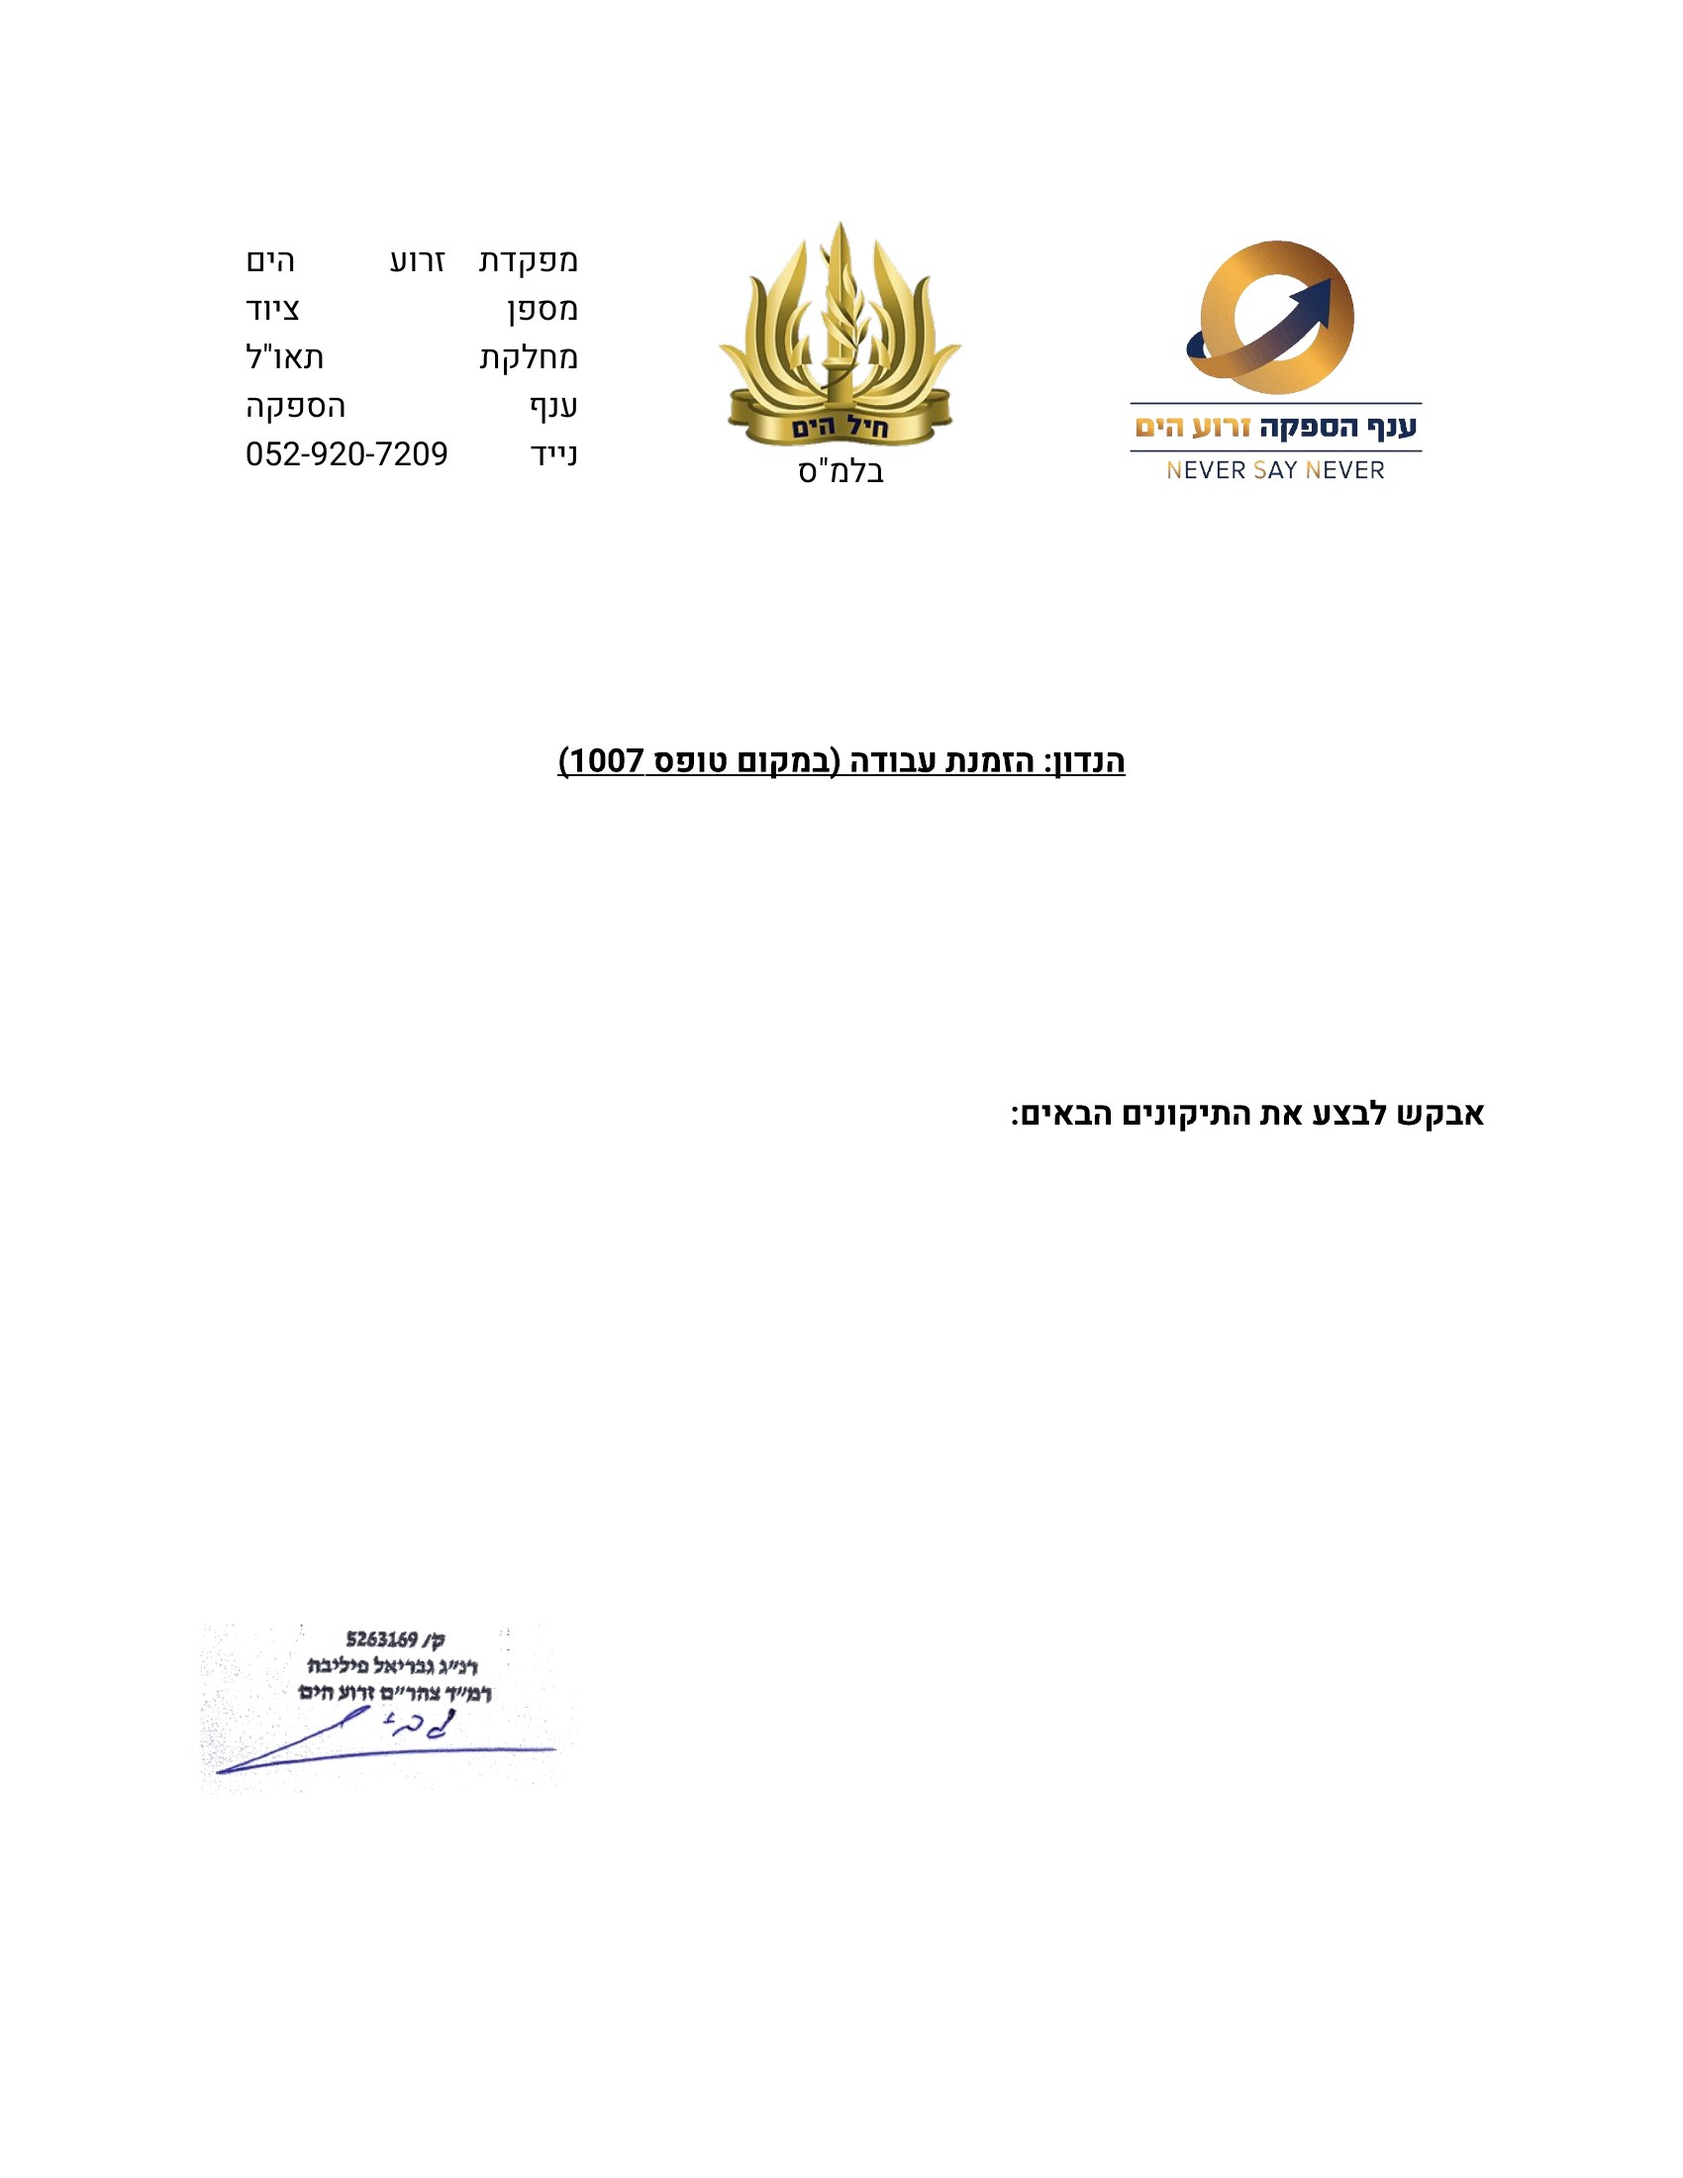
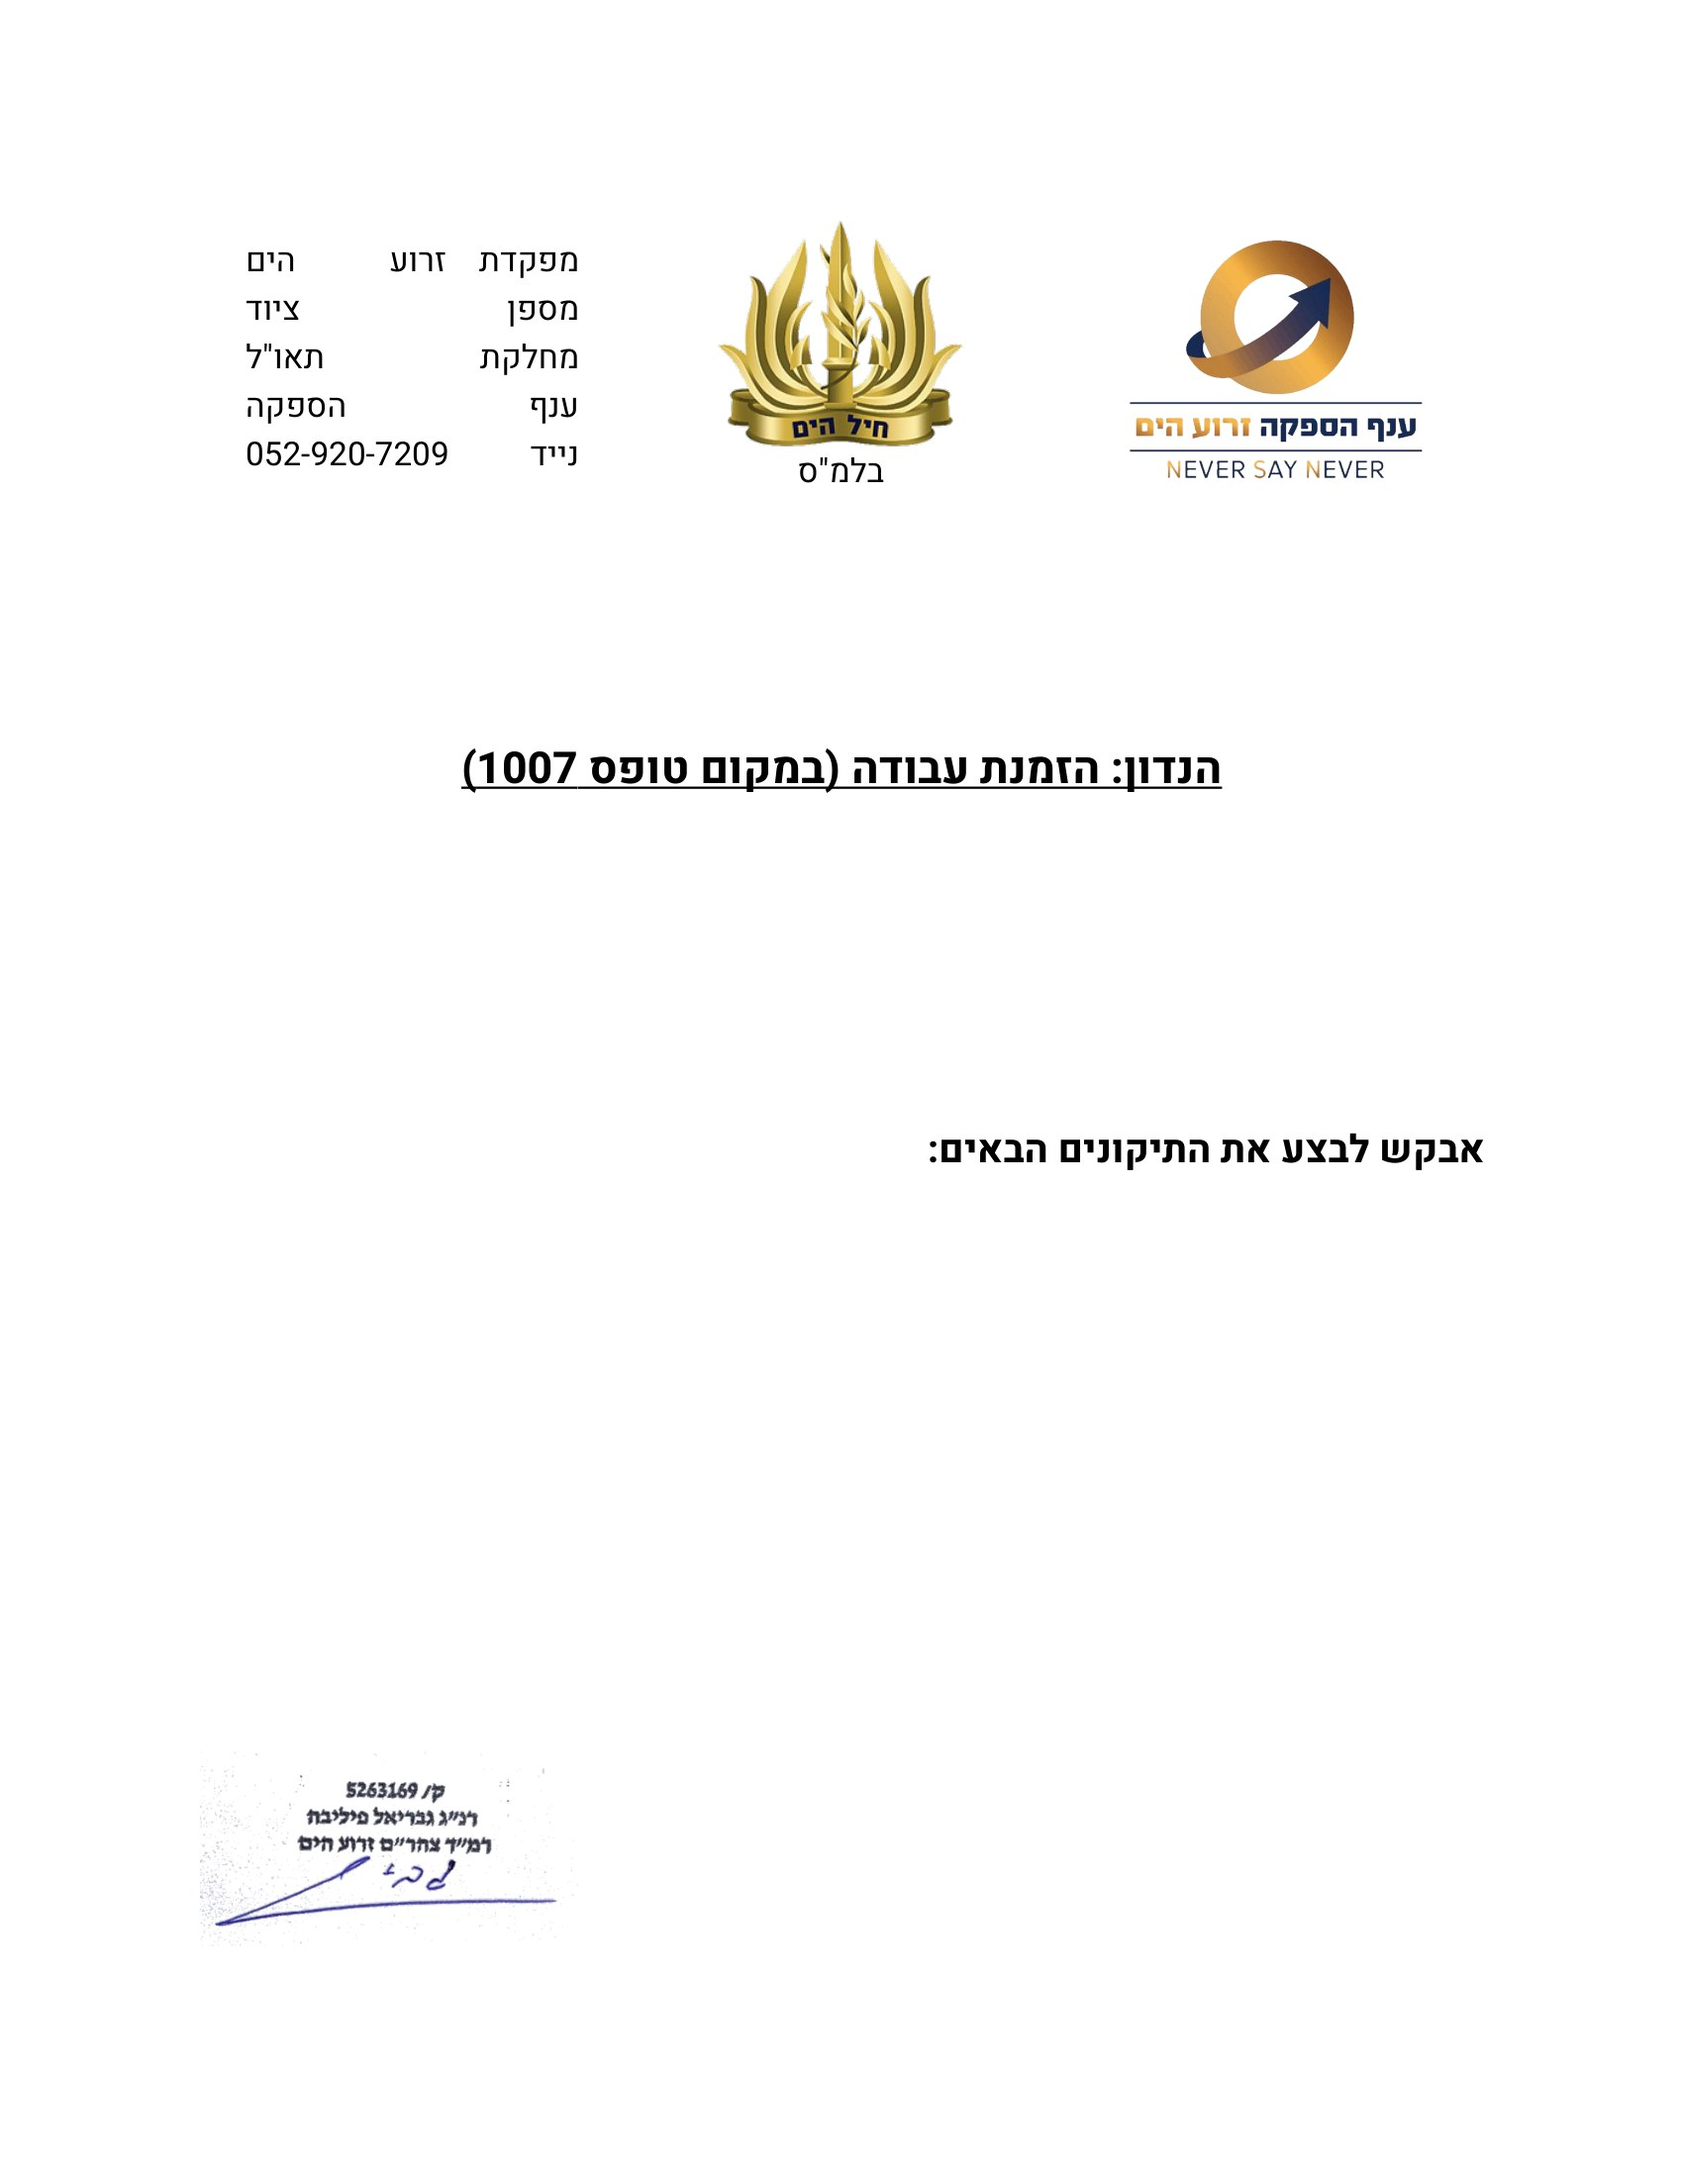
1007: שבלונה מעודכנת + שדה איש קשר
- הטופס החדש (גופן 14, שורות ממורכזות) והרקע שלו
- שדה 'איש קשר' בהזמנה, ברירת מחדל מההזמנה האחרונה
- בטקסט ארוך הרווחים מצטמצמים לפני שהגופן קטן

Claude-Session: https://claude.ai/code/session_01EctGJwErekA9LqHX3kjfTm

diff --git a/index.html b/index.html
@@ -755,6 +755,7 @@ try{ matchMedia("(prefers-color-scheme: dark)").addEventListener("change", syncT
     </div>
     <div class="field"><label for="oRepairs">אבקש לבצע את התיקונים הבאים (תאור התיקון)</label><textarea id="oRepairs" rows="3"></textarea></div>
     <div class="field"><label for="oDetails">התיקון יבוצע</label><textarea id="oDetails" rows="3"></textarea></div>
+    <div class="field"><label for="oContact">איש קשר (שם וטלפון)</label><textarea id="oContact" rows="2" placeholder="לדוגמה: איתי רוזנבלום 050-0000000"></textarea></div>
     <div class="field flag-field"><label for="oFlag"><span class="flag-ic">!</span> לטיפול שלי (משאירים ריק כשהטיפול הסתיים)</label><input id="oFlag" placeholder="לדוגמה: לבדוק מחיר / לעדכן תאריך"></div>
     <div class="field-group-title">תקציב (לא מודפס בטופס)</div>
     <div class="field"><label for="oReserve" id="oReserveLabel">סכום לשריון</label><input id="oReserve" class="ltr money" inputmode="decimal" autocomplete="off">
@@ -2348,6 +2349,12 @@ function fillDatalists(){
   $("dlVehicle").innerHTML = uniq("vehicle").map(v => `<option value="${escapeHtml(v)}">`).join("");
   $("dlUnit").innerHTML = uniq("unit").map(v => `<option value="${escapeHtml(v)}">`).join("");
 }
+// איש הקשר של ההזמנה האחרונה שהוזן בה — ברירת מחדל להזמנה חדשה
+function lastContact(){
+  const prev = state.orders.filter(o => String(o.contact || "").trim())
+    .sort((a, b) => String(b.date || "").localeCompare(String(a.date || "")))[0];
+  return prev ? prev.contact : "";
+}
 function openOrderForm(id, preset){
   const o = state.orders.find(x => x.id === id);
   editingOrderId = o ? o.id : null;
@@ -2376,6 +2383,7 @@ function openOrderForm(id, preset){
   $("oUnit").value = o?.unit || "";
   $("oRepairs").value = o?.repairs || "";
   $("oDetails").value = o?.details || "";
+  $("oContact").value = o ? (o.contact || "") : lastContact();
   $("oFlag").value = o?.flag || "";
   const inv = o && invoiceForOrder(o.id);
   setNum("oReserve", o?.reserve ?? null);
@@ -2453,6 +2461,7 @@ function collectOrder(){
     unit: $("oUnit").value.trim(),
     repairs: $("oRepairs").value.trim(),
     details: $("oDetails").value.trim(),
+    contact: $("oContact").value.trim(),
     flag: $("oFlag").value.trim(),
     budgetLineId: $("oBudget").value,
     reserve: numOf("oReserve"),
@@ -2497,6 +2506,7 @@ function fieldsFor(o){
     "[יחידה]": o.unit,
     "[שדה תיקונים]": o.repairs,
     "[פירוט התיקון]": o.details,
+    "[פרטי איש קשר]": o.contact || "",
   };
 }
 let templateCache = null;
@@ -2530,12 +2540,13 @@ const BG_1007_URL = "1007-bg.jpg";
 const PDF_MIME = "application/pdf";
 // מיקומים בנקודות (pt), נמדדו מהטופס המקורי. baseline = קו הבסיס של השורה.
 const F1007 = {
-  page: [612, 792], right: 539.93, left: 72,
-  lineA: { baseline: 229.41, alColon: 455.368, dateColon: 185.892 },
-  lineB: { baseline: 332.01 },
-  lineC: { baseline: 357.66 },
-  block: { first: 434.61, heading2Gap: 50.27, detailsGap: 26.68, bottom: 588 },
-  size: 12, lineH: 17.625,
+  page: [612, 792], right: 539.93, left: 72, center: 306,
+  lineA: { baseline: 229.41, alColon: 455.368, dateColon: 185.892, size: 12 },
+  lineB: { baseline: 339.9 },
+  lineC: { baseline: 368.45 },
+  // תיקונים → "התיקון יבוצע:" → פירוט → "איש קשר:" → פרטים. bottom = קו בסיס אחרון מעל החתימה
+  block: { first: 451.2, headGap: 57.1, valueGap: 28.55, bottom: 634 },
+  size: 14, lineH: 20.55,
 };
 const scriptCache = {};
 function loadScript(src){
@@ -2607,6 +2618,7 @@ async function render1007Overlay(o){
 
   // שורה 1: "אל: [שם החברה]" מימין, "תאריך: [תאריך]" משמאל
   const A = F1007.lineA;
+  { const S = A.size;
   ctx.font = `700 ${S}px Heebo`;
   const alW = ctx.measureText("אל").width, dateLabelW = ctx.measureText("תאריך").width;
   ctx.fillText("אל", A.alColon + alW, A.baseline);
@@ -2615,46 +2627,58 @@ async function render1007Overlay(o){
   drawRuns(ctx, companyRuns, A.alColon, A.baseline, fitSize(ctx, companyRuns, maxCompany, S));
   ctx.font = `700 ${S}px Heebo`;
   ctx.fillText("תאריך", A.dateColon + dateLabelW, A.baseline);
-  drawRuns(ctx, [{ t: ": " + f["[תאריך הנפקת מסמך]"] }], A.dateColon, A.baseline, S);
+  drawRuns(ctx, [{ t: ": " + f["[תאריך הנפקת מסמך]"] }], A.dateColon, A.baseline, S); }
 
-  // שורה 2: הזמנה מס' · סודר · מס' צ'  (כמו ב-Word: מימין לשמאל, עם אותם רווחים)
-  const runsB = [
-    { t: "הזמנה מס' ", b: true }, { t: `${f["[מס' הזמנה]"]}    ` },
-    { t: "סודר", b: true }, { t: ` ${f["[מס' סודר]"]}    ` },
-    { t: "מס' צ' ", b: true }, { t: `${f["[מס' צ']"]}` },
-  ];
+  // שורות 2–3 ממורכזות בעמוד, כמו ב-Word, עם אותם רווחים בין השדות
   const fullW = F1007.right - F1007.left;
-  drawRuns(ctx, runsB, F1007.right, F1007.lineB.baseline, fitSize(ctx, runsB, fullW, S));
-  // שורה 3: סוג הכלי · שעות מנוע · יחידה
-  const runsC = [
-    { t: "סוג הכלי", b: true }, { t: ` ${f["[סוג הכלי]"]}         ` },
-    { t: "שעות מנוע", b: true }, { t: ` ${f["[שעות מנוע]"]}      ` },
+  const centered = (runs, baseline) => {
+    const size = fitSize(ctx, runs, fullW, S);
+    drawRuns(ctx, runs, F1007.center + runsWidth(ctx, runs, size) / 2, baseline, size);
+  };
+  const sp = n => " ".repeat(n);
+  centered([
+    { t: "הזמנה מס' ", b: true }, { t: `${f["[מס' הזמנה]"]}${sp(12)}` },
+    { t: "סודר", b: true }, { t: ` ${f["[מס' סודר]"]}${sp(15)}` },
+    { t: "מס' צ' ", b: true }, { t: `${f["[מס' צ']"]}` },
+  ], F1007.lineB.baseline);
+  centered([
+    { t: "סוג הכלי", b: true }, { t: ` ${f["[סוג הכלי]"]}${sp(11)}` },
+    { t: "שעות מנוע", b: true }, { t: ` ${f["[שעות מנוע]"]}${sp(12)}` },
     { t: "יחידה", b: true }, { t: ` ${f["[יחידה]"]}` },
-  ];
-  drawRuns(ctx, runsC, F1007.right, F1007.lineC.baseline, fitSize(ctx, runsC, fullW, S));
+  ], F1007.lineC.baseline);
 
-  // התיקונים + "התיקון יבוצע:" + הפירוט — הכותרת השנייה זזה למטה לפי אורך התיקונים,
-  // ואם הטקסט ארוך הגופן קטן כדי לא לעלות על החתימה.
+  // התיקונים → "התיקון יבוצע:" + פירוט → "איש קשר:" + פרטים. כל כותרת זזה למטה לפי אורך
+  // הטקסט שמעליה, ואם הכל ארוך הגופן קטן כדי לא לעלות על החתימה.
   const B = F1007.block;
-  let size = S, lay;
-  for (;;){
+  const contact = String(f["[פרטי איש קשר]"] || "").trim();
+  // קודם מצמצמים את הרווחים שבין הכותרות, ורק אם עדיין לא נכנס — מקטינים את הגופן.
+  const sections = [["התיקון יבוצע:", f["[פירוט התיקון]"]]];
+  if (contact) sections.push(["איש קשר:", contact]);
+  let lay;
+  for (let size = S; ; size -= 0.5){
     const lh = F1007.lineH * size / S;
     ctx.font = `400 ${size}px Heebo`;
-    const rep = wrapLines(ctx, f["[שדה תיקונים]"], fullW);
-    const det = wrapLines(ctx, f["[פירוט התיקון]"], fullW);
-    const h2 = B.first + (Math.max(rep.length, 1) - 1) * lh + B.heading2Gap * (0.5 + 0.5 * size / S);
-    const d0 = h2 + B.detailsGap * (0.5 + 0.5 * size / S);
-    const last = d0 + (Math.max(det.length, 1) - 1) * lh;
-    lay = { rep, det, h2, d0, lh, size };
-    if (last <= B.bottom || size <= 7) break;
-    size -= 0.5;
+    const wrap = t => { const l = wrapLines(ctx, t, fullW); return l.length ? l : [""]; };
+    const rep = wrap(f["[שדה תיקונים]"]), vals = sections.map(([, v]) => wrap(v));
+    const textH = [rep, ...vals].reduce((h, l) => h + (l.length - 1) * lh, 0);
+    const gapsFull = sections.length * (B.headGap + B.valueGap);
+    const room = B.bottom - B.first - textH;
+    const k = Math.max(0.5, Math.min(1, room / gapsFull));
+    lay = { lh, size, rep, vals, k };
+    if (k >= 0.6 * size / S || size <= 8) break;
   }
-  ctx.font = `400 ${lay.size}px Heebo`;
-  lay.rep.forEach((t, i) => ctx.fillText(t, F1007.right, B.first + i * lay.lh));
-  ctx.font = `700 ${S}px Heebo`;
-  ctx.fillText("התיקון יבוצע:", F1007.right, lay.h2);
-  ctx.font = `400 ${lay.size}px Heebo`;
-  lay.det.forEach((t, i) => ctx.fillText(t, F1007.right, lay.d0 + i * lay.lh));
+  lay.items = [{ lines: lay.rep, y: B.first }];
+  let y = B.first + (lay.rep.length - 1) * lay.lh;
+  sections.forEach(([head], i) => {
+    const hy = y + B.headGap * lay.k, vy = hy + B.valueGap * lay.k;
+    lay.items.push({ head, y: hy }, { lines: lay.vals[i], y: vy });
+    y = vy + (lay.vals[i].length - 1) * lay.lh;
+  });
+  for (const it of lay.items){
+    if (it.head){ ctx.font = `700 ${S}px Heebo`; ctx.fillText(it.head, F1007.right, it.y); continue; }
+    ctx.font = `400 ${lay.size}px Heebo`;
+    it.lines.forEach((t, i) => ctx.fillText(t, F1007.right, it.y + i * lay.lh));
+  }
 
   return new Promise(res => cv.toBlob(res, "image/png"));
 }

diff --git a/sw.js b/sw.js
@@ -2,7 +2,7 @@
 // sw.js's own bytes, which is what makes the browser notice there's an update at
 // all -- a byte-identical sw.js is never re-installed, no matter how much
 // index.html changed on the server.
-const CACHE_NAME = 'tzahram-budget-v74';
+const CACHE_NAME = 'tzahram-budget-v75';
 const SHELL = [
   './',
   './index.html',
